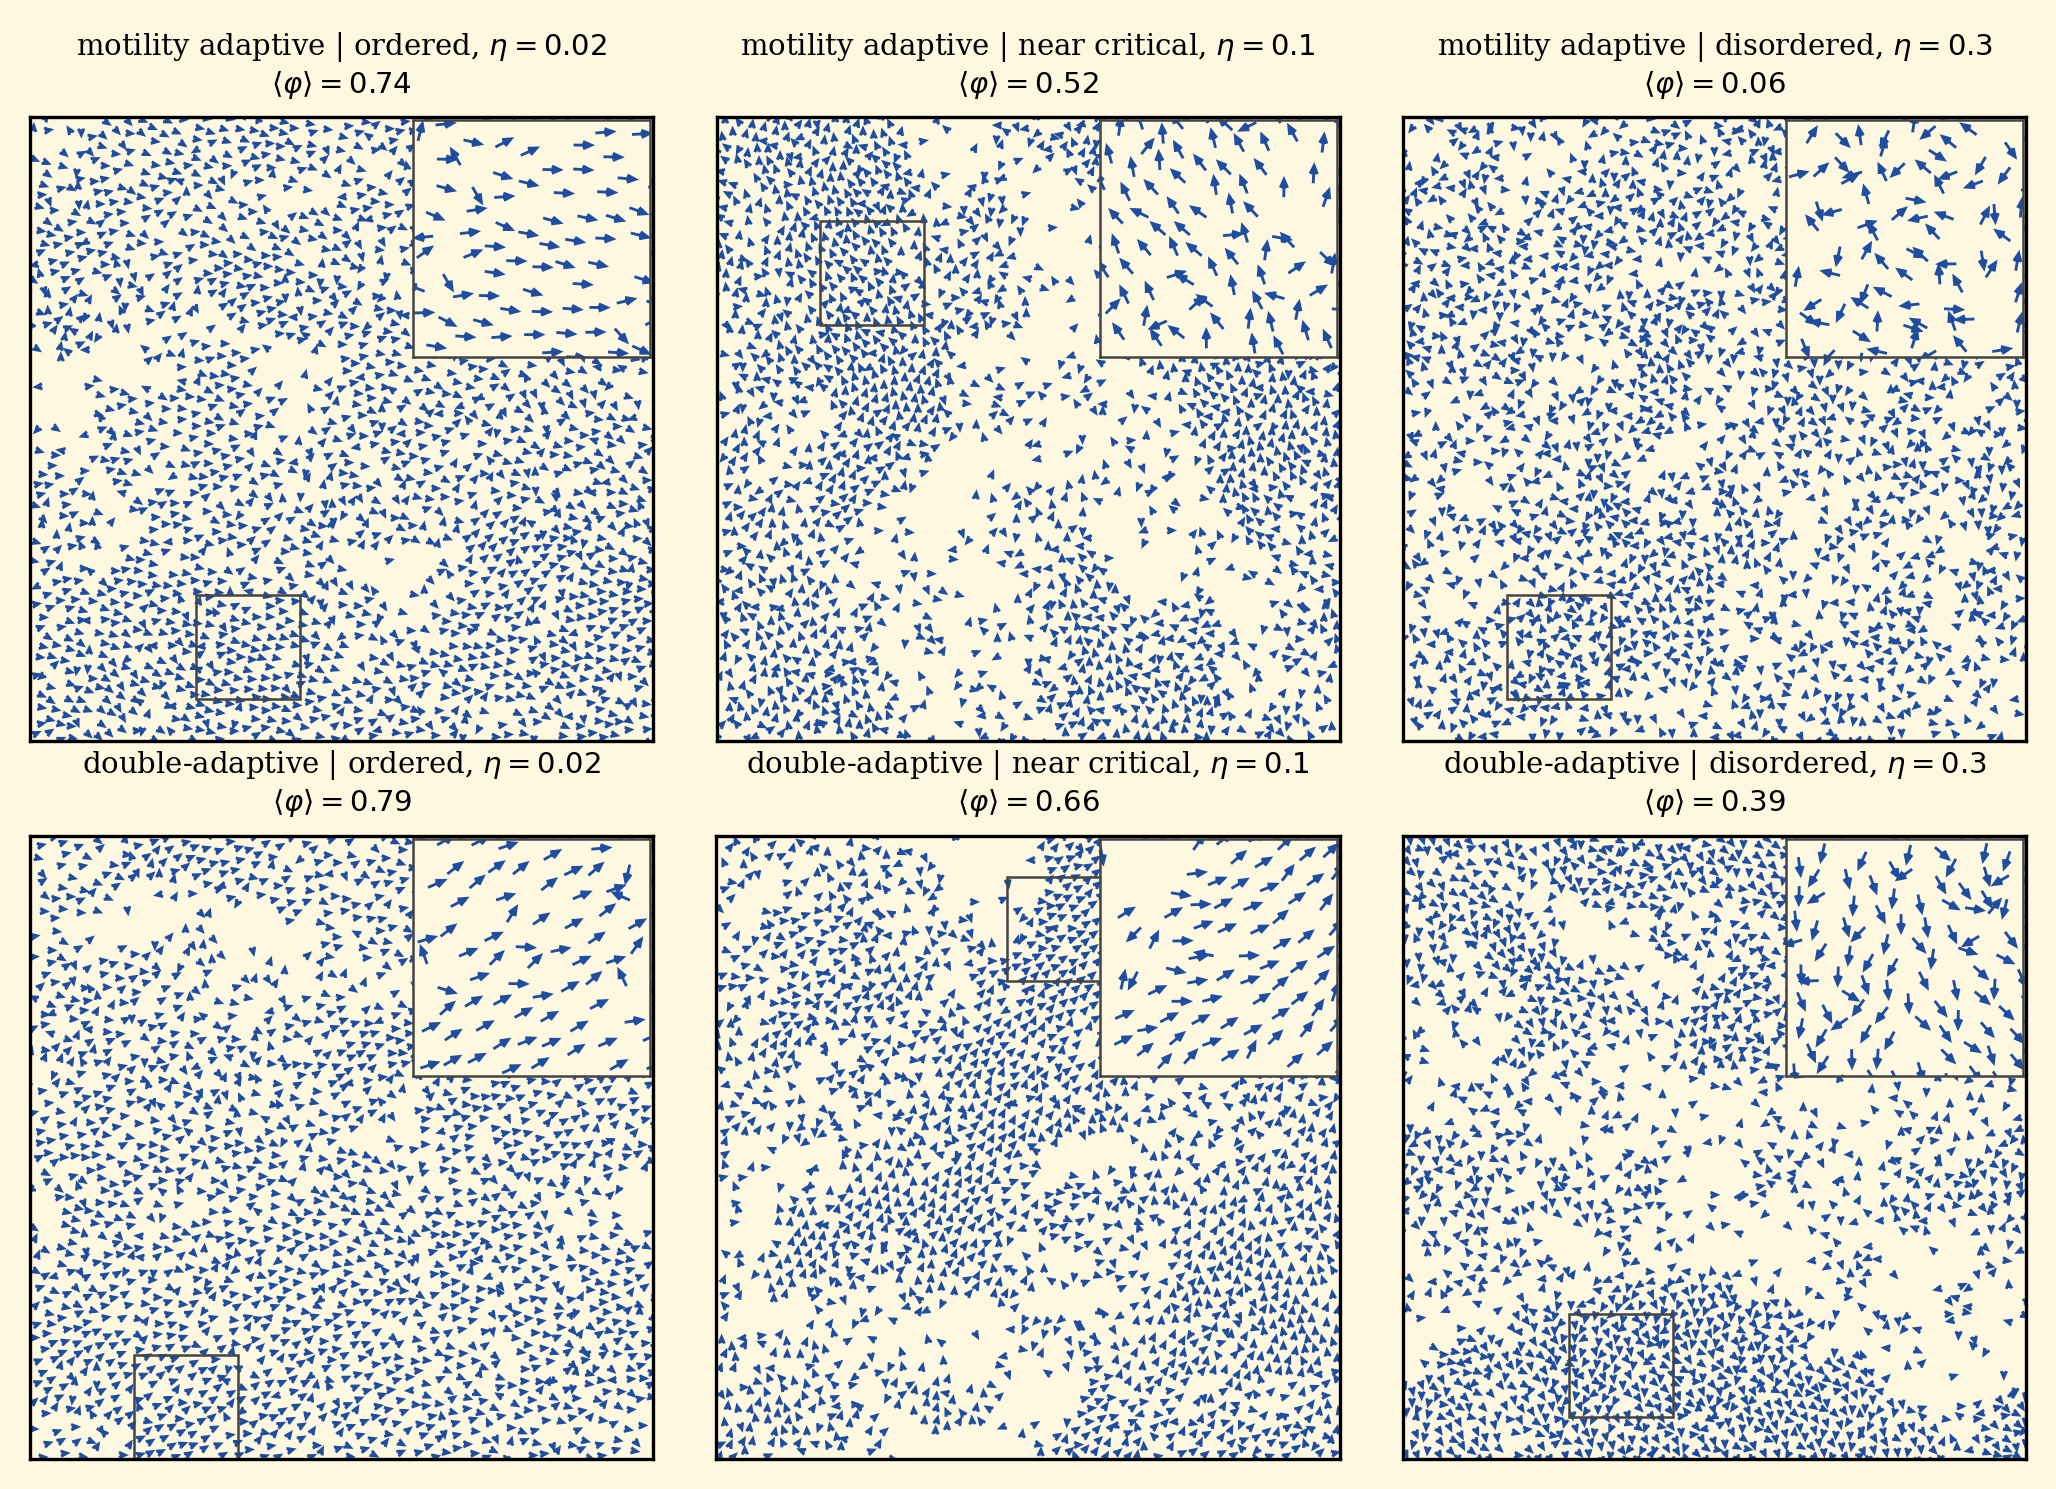
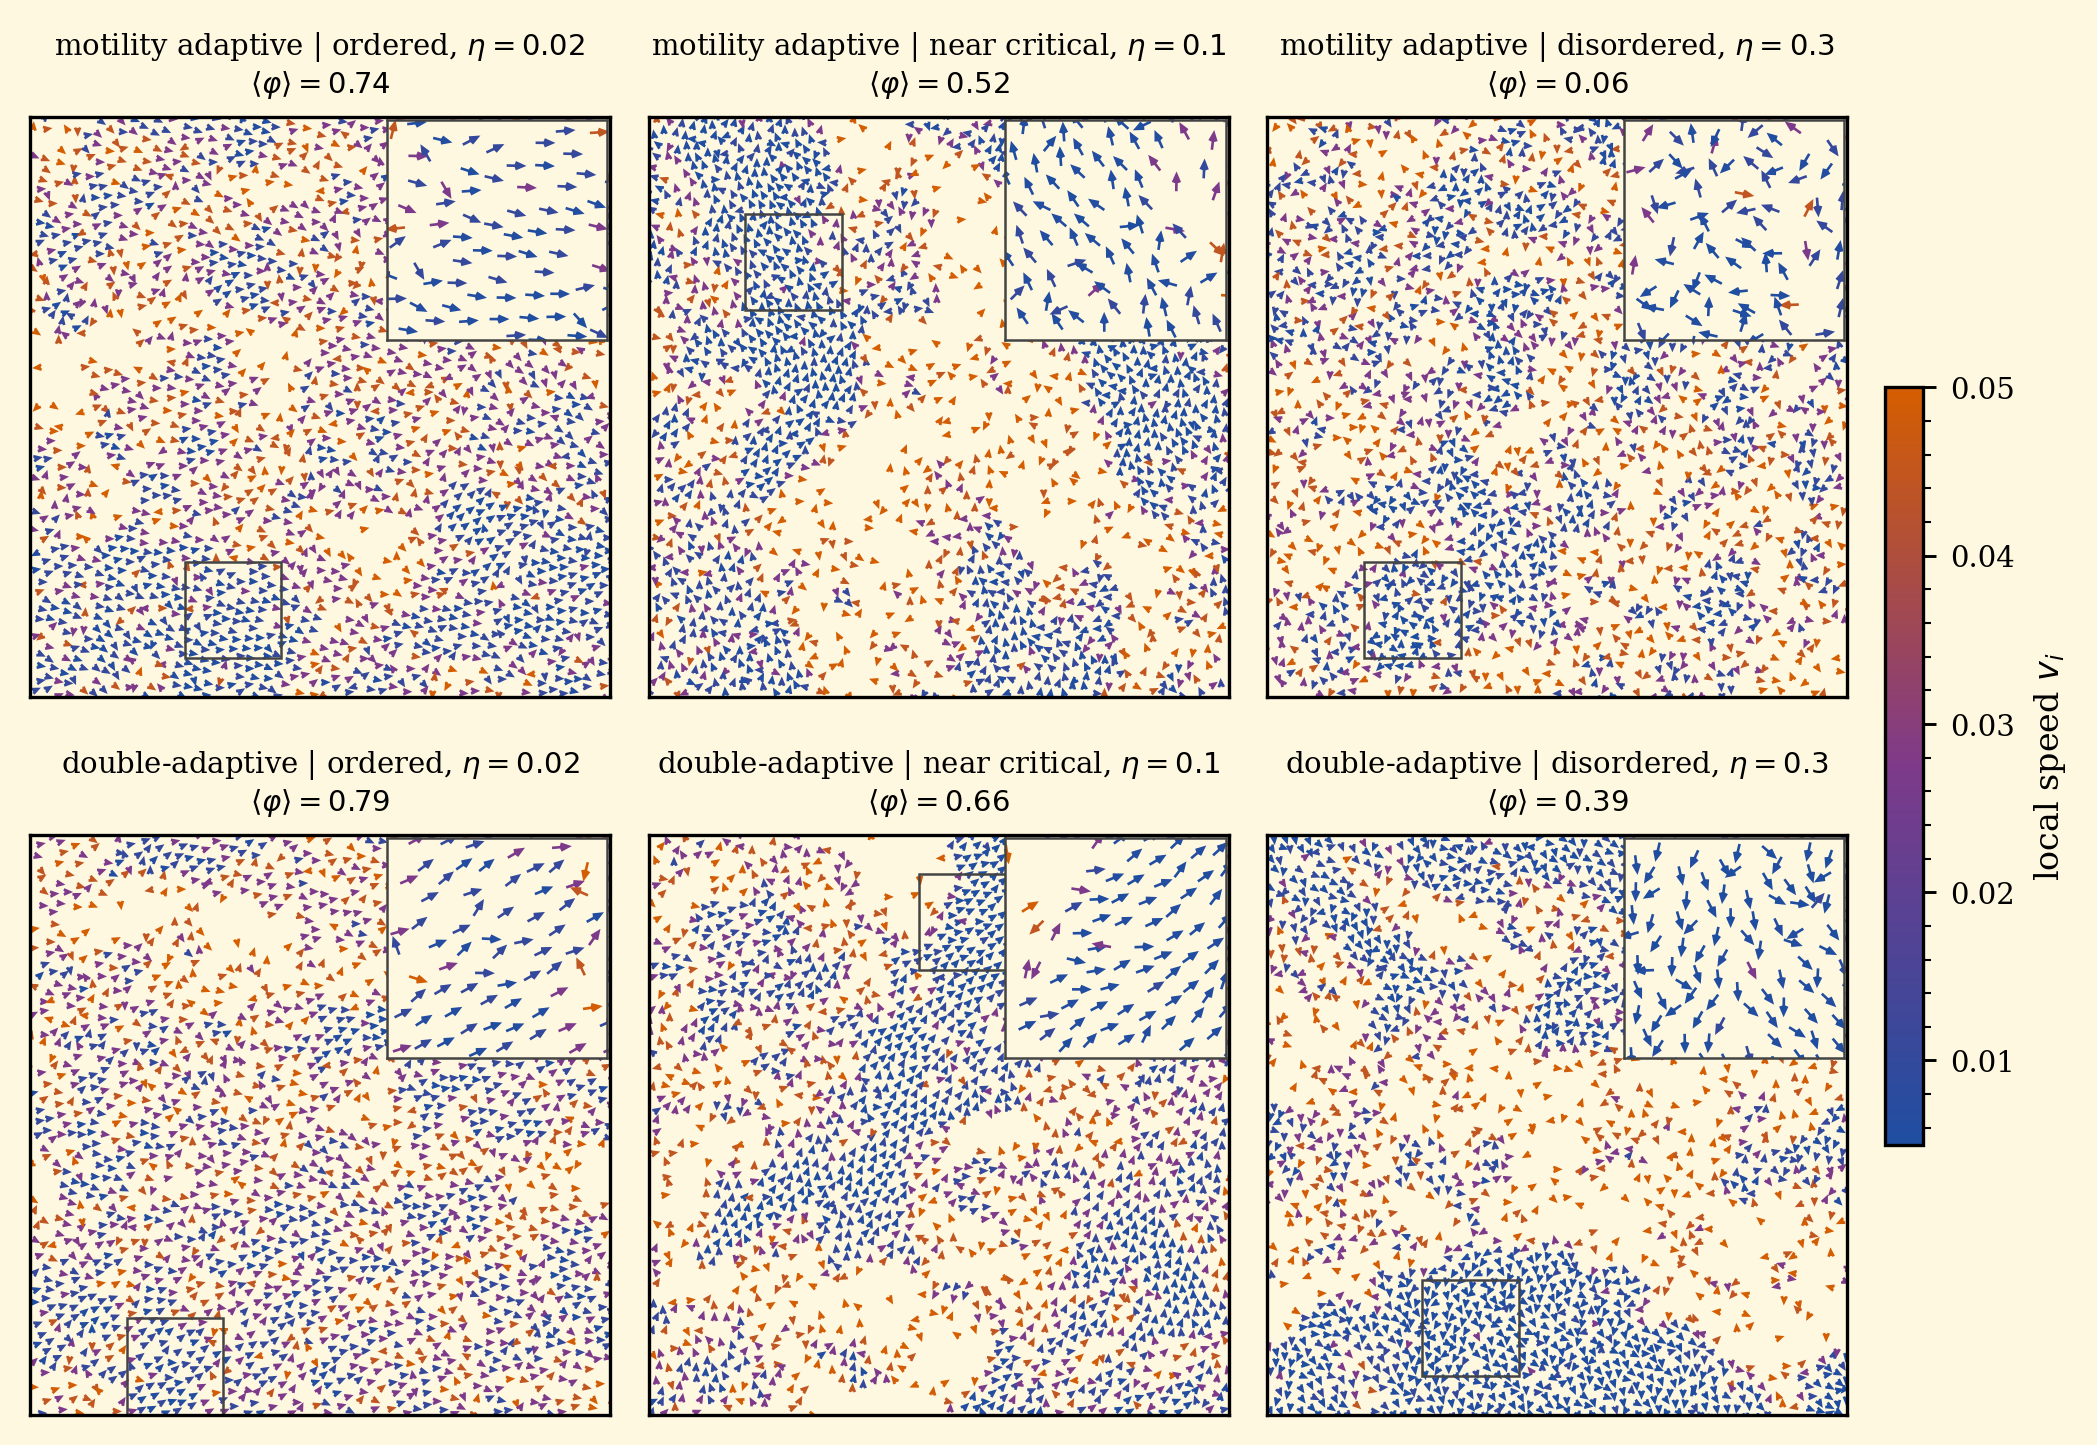
fig: encode local speed v_i in snapshot quivers
Color each snapshot arrow by its v_i with a 3-stop cream-
friendly colormap (navy #1f4ea1 -> mauve #7e3a8a -> vermillion
#D55E00) normalised on [0.005, 0.05]. Slow particles trapped in
the dense phase read navy, fast particles in the dilute phase
read vermillion, so the speed-density correlation that drives
the rectification is now legible at a glance in both the main
panel and the zoom inset. Add a shared vertical colorbar at
the right of each figure. The cmap is exported as SPEED_CMAP
alongside SPEED_VMIN / SPEED_VMAX so any future snapshot
function can use the same normalisation.

diff --git a/src/make_figures.py b/src/make_figures.py
@@ -26,6 +26,17 @@ def _save(fig, name):
 
 SNAPSHOT_BLUE = "#1f4ea1"  # v1 navy: best contrast on cream at print size
 
+# Speed-encoding colormap for snapshots: navy (slow, trapped in
+# the dense phase) -> vermillion (fast, free in the dilute phase).
+# Both endpoints read well on cream and stay legible at print
+# size; the midpoint mauve also stays distinct from the cream BG.
+from matplotlib.colors import LinearSegmentedColormap as _LinearSegmentedColormap
+
+SPEED_CMAP = _LinearSegmentedColormap.from_list(
+    "snapshot_speed", [SNAPSHOT_BLUE, "#7e3a8a", "#D55E00"])
+SPEED_VMIN = 0.005
+SPEED_VMAX = 0.05
+
 
 def _cream_panel(ax):
     """v1 snapshot aesthetic: cream face on the panel."""
@@ -33,7 +44,7 @@ def _cream_panel(ax):
 
 
 def _zoom_inset(ax, xs, ys, ths, L, zoom_size=5.0, loc="upper right",
-                inset_frac=0.38, arrow_len=0.45):
+                inset_frac=0.38, arrow_len=0.45, speeds=None):
     """Add a square zoom inset showing a clearly resolved sub-region.
 
     The inset is anchored in `loc` corner of the parent axes and shows
@@ -62,13 +73,23 @@ def _zoom_inset(ax, xs, ys, ths, L, zoom_size=5.0, loc="upper right",
     iax = ax.inset_axes(anchor)
     iax.set_facecolor(style.CREAM)
     sel = (xs >= x0) & (xs <= x1) & (ys >= y0) & (ys <= y1)
-    iax.quiver(
-        xs[sel], ys[sel], np.cos(ths[sel]), np.sin(ths[sel]),
-        color=SNAPSHOT_BLUE,
-        scale=1.0 / arrow_len, scale_units="xy",
-        angles="xy", width=0.012,
-        headwidth=3.5, headlength=4.0,
-    )
+    if speeds is None:
+        iax.quiver(
+            xs[sel], ys[sel], np.cos(ths[sel]), np.sin(ths[sel]),
+            color=SNAPSHOT_BLUE,
+            scale=1.0 / arrow_len, scale_units="xy",
+            angles="xy", width=0.012,
+            headwidth=3.5, headlength=4.0,
+        )
+    else:
+        iax.quiver(
+            xs[sel], ys[sel], np.cos(ths[sel]), np.sin(ths[sel]),
+            speeds[sel],
+            cmap=SPEED_CMAP, clim=(SPEED_VMIN, SPEED_VMAX),
+            scale=1.0 / arrow_len, scale_units="xy",
+            angles="xy", width=0.012,
+            headwidth=3.5, headlength=4.0,
+        )
     iax.set_xlim(x0, x1); iax.set_ylim(y0, y1)
     iax.set_aspect("equal")
     iax.set_xticks([]); iax.set_yticks([])
@@ -429,28 +450,32 @@ def fig_double_snapshot(npz_path: Path):
     case_labels = [str(s) if isinstance(s, str) else s.decode()
                    for s in z["case_labels"]]
     x = z["x"]; y = z["y"]; theta = z["theta"]
-    eta = z["eta"]; phi = z["phi"]
+    v = z["v"]; eta = z["eta"]; phi = z["phi"]
     L = float(z["params"][1])
 
     nm, nc = len(mode_labels), len(case_labels)
     fig, axes = plt.subplots(nm, nc,
                              figsize=(style.DOUBLE_COL[0], 5.0))
     arrow_len = 0.45
+    last_q = None
     for im in range(nm):
         for ic in range(nc):
             ax = axes[im, ic]
             _cream_panel(ax)
-            ax.quiver(x[im, ic], y[im, ic],
-                      np.cos(theta[im, ic]), np.sin(theta[im, ic]),
-                      color=SNAPSHOT_BLUE,
-                      scale=1.0 / arrow_len, scale_units="xy",
-                      angles="xy", width=0.004,
-                      headwidth=3.5, headlength=4.0)
+            q = ax.quiver(x[im, ic], y[im, ic],
+                          np.cos(theta[im, ic]), np.sin(theta[im, ic]),
+                          v[im, ic],
+                          cmap=SPEED_CMAP,
+                          clim=(SPEED_VMIN, SPEED_VMAX),
+                          scale=1.0 / arrow_len, scale_units="xy",
+                          angles="xy", width=0.004,
+                          headwidth=3.5, headlength=4.0)
             ax.set_xlim(0, L); ax.set_ylim(0, L)
             ax.set_aspect("equal")
             ax.set_xticks([]); ax.set_yticks([])
             _zoom_inset(ax, x[im, ic], y[im, ic], theta[im, ic],
-                        L, zoom_size=5.0, arrow_len=arrow_len)
+                        L, zoom_size=5.0, arrow_len=arrow_len,
+                        speeds=v[im, ic])
             nice_c = _disp(case_labels[ic])
             nice_m = _disp(mode_labels[im])
             ax.set_title(
@@ -459,7 +484,12 @@ def fig_double_snapshot(npz_path: Path):
                 fr"$\langle\varphi\rangle = {phi[im, ic]:.2f}$",
                 fontsize=7,
             )
-    fig.tight_layout()
+            last_q = q
+    fig.tight_layout(rect=(0.0, 0.0, 0.94, 1.0))
+    cbar = fig.colorbar(last_q, ax=axes, orientation="vertical",
+                        fraction=0.020, pad=0.02)
+    cbar.set_label(r"local speed $v_i$", fontsize=8)
+    cbar.ax.tick_params(labelsize=7)
     _cream_save(fig, "fig_double_snapshot.pdf")
 
 
@@ -918,7 +948,7 @@ def fig_double_3regimes(npz_path: Path):
     case_labels = [str(s) if isinstance(s, str) else s.decode()
                    for s in z["case_labels"]]
     x = z["x"]; y = z["y"]; theta = z["theta"]
-    eta = z["eta"]; phi = z["phi"]
+    vs = z["v"]; eta = z["eta"]; phi = z["phi"]
     L = float(z["params"][1])
 
     im_full = mode_labels.index("full")
@@ -927,13 +957,16 @@ def fig_double_3regimes(npz_path: Path):
     fig, axes = plt.subplots(1, 3,
                               figsize=(style.DOUBLE_COL[0], 3.2))
     arrow_len = 0.45
+    last_q = None
     for ic, ax in enumerate(axes):
         _cream_panel(ax)
         u = np.cos(theta[im_full, ic])
-        v = np.sin(theta[im_full, ic])
-        ax.quiver(
-            x[im_full, ic], y[im_full, ic], u, v,
-            color=SNAPSHOT_BLUE,
+        w = np.sin(theta[im_full, ic])
+        q = ax.quiver(
+            x[im_full, ic], y[im_full, ic], u, w,
+            vs[im_full, ic],
+            cmap=SPEED_CMAP,
+            clim=(SPEED_VMIN, SPEED_VMAX),
             scale=1.0 / arrow_len, scale_units="xy",
             angles="xy", width=0.004,
             headwidth=3.5, headlength=4.0,
@@ -942,14 +975,20 @@ def fig_double_3regimes(npz_path: Path):
         ax.set_aspect("equal")
         ax.set_xticks([]); ax.set_yticks([])
         _zoom_inset(ax, x[im_full, ic], y[im_full, ic], theta[im_full, ic],
-                    L, zoom_size=5.0, arrow_len=arrow_len)
+                    L, zoom_size=5.0, arrow_len=arrow_len,
+                    speeds=vs[im_full, ic])
         ax.set_title(
             f"{nice_cases[ic]}\n"
             fr"$\eta={eta[ic]:g}$, "
             fr"$\langle\varphi\rangle={phi[im_full, ic]:.2f}$",
             fontsize=8,
         )
-    fig.tight_layout()
+        last_q = q
+    fig.tight_layout(rect=(0.0, 0.0, 0.93, 1.0))
+    cbar = fig.colorbar(last_q, ax=axes, orientation="vertical",
+                        fraction=0.030, pad=0.02)
+    cbar.set_label(r"local speed $v_i$", fontsize=8)
+    cbar.ax.tick_params(labelsize=7)
     _cream_save(fig, "fig_double_3regimes.pdf")
 
 